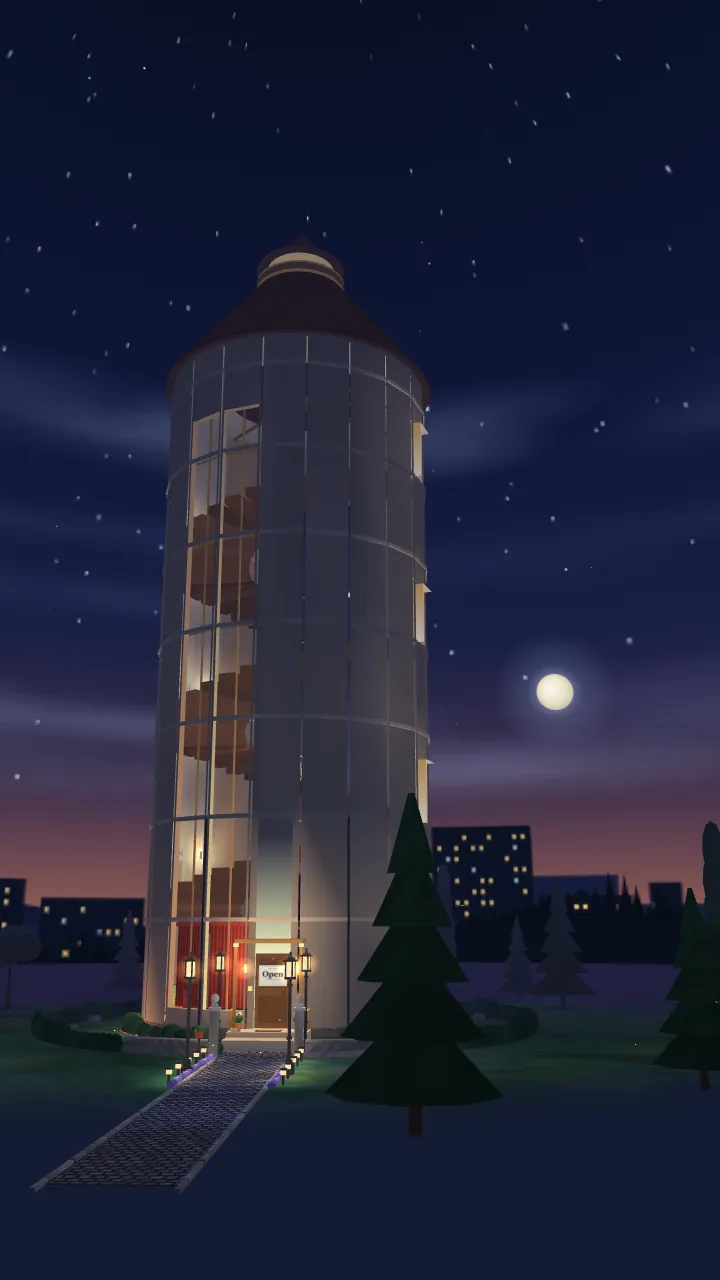
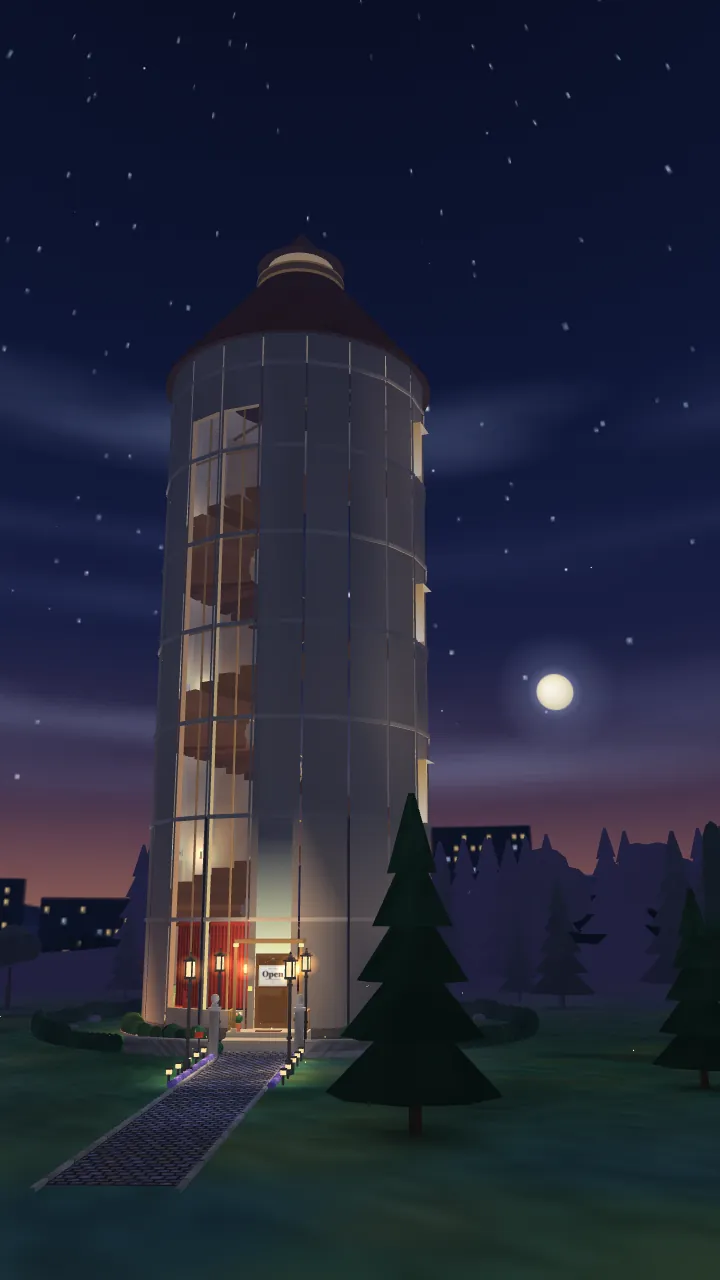
Replace the flat outer plane with terrain: fields, lakes, rolling hills and far woods to the horizon; refresh the posters

diff --git a/house/exterior.js b/house/exterior.js
@@ -10,7 +10,6 @@ const GY = -60, WALL = 30, FW = 2 * APO * Math.tan(9 * D) + 1.5;
 const C = hex;
 const sinz = (a) => Math.sin(a * D), cosz = (a) => Math.cos(a * D);
 const UP = [0, 1, 0], DOWN = [0, -1, 0];
-const BG = [20, 27, 51]; /* the colour of the ground disc beyond the lawn (sky.js), so the lawn can melt into it */
 
 /* smooth value noise on the ground plane, for patches in the lawn and for varying the planting */
 const fr = (x) => x - Math.floor(x);
@@ -140,21 +139,44 @@ export function buildExterior(scene, B, H, ex) {
     treeList.push({ a, r, s, kind: kind < 0.45 ? 0 : kind < 0.78 ? 1 : 2, x: r * sinz(a), z: r * cosz(a) });
   }
 
-  /* ---------- the lawn: patchy greens, soft mowing stripes by the house, and a slow fade into the dark ground ---------- */
+  /* ---------- the ground: a lawn by the house that gives way, ring by ring, to fields, lakes and rolling hills out to the horizon ---------- */
+  const wet = (x, z, rr) => (1 - sstep(0.28, 0.34, vn(x + 500, z - 300, 1500))) * sstep(3300, 4000, rr); /* 0..1: how much of this spot is lake */
+  const th = (x, z) => { /* terrain height above the lawn: flat near the house and the front approach, hills further out, flat lakes */
+    const rr = Math.hypot(x, z); if (rr < 3100) return 0;
+    const front = 0.25 + 0.75 * sstep(30, 100, Math.abs(dAz(Math.atan2(x, z) / D)));
+    return sstep(3100, 6500, rr) * front * (vn(x, z, 1700) * 260 + vn(x, z, 650) * 90) * (1 - wet(x, z, rr));
+  };
   const lawn = (p, n) => {
     const x = p[0], z = p[2], rr = Math.hypot(x, z), f = fbm(x, z);
     let sh = 1; for (let i = 0; i < treeList.length; i++) { const tr = treeList[i], d = Math.hypot(x - tr.x, z - tr.z), R = 210 * tr.s; if (d < R) sh = Math.min(sh, 1 - 0.42 * (1 - d / R) * (1 - d / R) * 1.6); }
     let a = mix(C('#24472f'), C('#386443'), f);
     a = mix(a, C('#55602f'), sstep(0.6, 0.85, vn(x + 400, z - 300, 230)) * 0.5); /* dry, yellowing patches */
     a = mix(a, C('#1a3024'), sstep(0.65, 0.9, vn(x - 900, z + 120, 380)) * 0.5); /* damp shade */
+    const far = sstep(1900, 3300, rr);
+    if (far > 0) { /* beyond the garden: fields of different greens and ochres, with cool shaded folds between them */
+      let fld = mix(C('#2a4a33'), C('#4a5a2e'), vn(x + 90, z - 40, 520));
+      fld = mix(fld, C('#1f3d40'), sstep(0.55, 0.8, vn(x - 300, z + 700, 900)) * 0.7);
+      fld = mix(fld, C('#5a5a34'), sstep(0.72, 0.9, vn(x + 1200, z + 300, 640)) * 0.6);
+      a = mix(a, fld, far).map((v) => v * (1 + 0.3 * far)); /* a touch brighter out here, so the land reads under the fog */
+      const wm = wet(x, z, rr);
+      if (wm > 0) { const s = Math.max(0, x / Math.max(1, rr)), sheen = s * s * (0.6 + 0.4 * vn(x, z, 120)); a = mix(a, mix(C('#17264c'), C('#4b66a8'), Math.min(1, sheen * 1.4)), Math.min(1, wm * 1.6)); }
+    }
     const l = -x * cosz(az) + z * sinz(az), k = (1 + 0.06 * Math.sin(l * Math.PI / 140) * (1 - sstep(900, 1700, rr))) * grain(p, 0.12) * Math.max(0.5, sh);
-    return mix(shade([a[0] * k, a[1] * k, a[2] * k], p, n, extAmb(n)), BG, sstep(1700, 2650, rr));
+    return shade([a[0] * k, a[1] * k, a[2] * k], p, n, extAmb(n));
   };
   { /* one call, so every ring shares a cell count and the seams meet exactly */
     const ra = R0 + 6, rb = 2700, cell = 230, nr = Math.ceil((rb - ra) / cell), na = Math.ceil(2 * Math.PI * rb / cell);
     for (let ri = 0; ri < nr; ri++) for (let i = 0; i < na; i++) {
       const r0 = ra + (rb - ra) * ri / nr, r1 = ra + (rb - ra) * (ri + 1) / nr, p0 = 360 * i / na, p1 = 360 * (i + 1) / na;
       B.quad(polarPt(p0, r0, GY + 0.2), polarPt(p1, r0, GY + 0.2), polarPt(p1, r1, GY + 0.2), polarPt(p0, r1, GY + 0.2), lawn, 4, 4, UP);
+    }
+  }
+  { /* the land beyond: rings that widen with distance, lifted by the terrain height; fog (3500..9000) does the atmosphere */
+    const RIN = 2700, ROUT = 8800, NR = 18, NA = 148, ratio = Math.pow(ROUT / RIN, 1 / NR);
+    const P = (a, r) => { const x = r * sinz(a), z = r * cosz(a); return [x, GY + 0.2 + th(x, z), z]; };
+    for (let ri = 0; ri < NR; ri++) {
+      const r0 = RIN * Math.pow(ratio, ri), r1 = r0 * ratio;
+      for (let i = 0; i < NA; i++) { const p0 = 360 * i / NA, p1 = 360 * (i + 1) / NA; B.quad(P(p0, r0), P(p1, r0), P(p1, r1), P(p0, r1), lawn, 2, 2, UP); }
     }
   }
 
@@ -260,7 +282,7 @@ export function buildExterior(scene, B, H, ex) {
   const bark = ext(C('#3A2B1F'), 0.12);
   const leaf = (t) => ext(mix(C('#18301f'), C('#2c5a38'), t), 0.18);
   const tree = (a, r, kind, s) => {
-    const x = r * sinz(a), z = r * cosz(a);
+    const x = r * sinz(a), z = r * cosz(a), GY = -60 + th(x, z); /* stand on the terrain */
     if (kind === 0) {
       frustum(x, z, GY, GY + 270 * s, 19 * s, 10 * s, 6, bark);
       const y0 = GY + 360 * s;
@@ -278,6 +300,17 @@ export function buildExterior(scene, B, H, ex) {
     }
   };
   treeList.forEach((tr) => tree(tr.a, tr.r, tr.kind, tr.s));
+  /* far woods on the hills, in clumps, larger with distance so they still read from the establishing shot */
+  { let fs = 5; const frng = () => (fs = (fs * 16807) % 2147483647) / 2147483647, woods = [];
+    for (let i = 0; i < 520 && woods.length < 120; i++) {
+      const a = frng() * 360, r = 2900 + frng() * 4200, x = r * sinz(a), z = r * cosz(a);
+      const rad = x * sinz(az) + z * cosz(az), lat = -x * cosz(az) + z * sinz(az);
+      if (rad > 2600 && rad < 6400 && Math.abs(lat) < 1500) continue; /* keep the approach, and the establishing camera, clear */
+      if (vn(x + 1300, z + 200, 1000) < 0.5 || wet(x, z, r) > 0.05) continue;
+      if (woods.some((w) => Math.hypot(w.x - x, w.z - z) < 170)) continue;
+      woods.push({ a, r, x, z, kind: frng() < 0.62 ? 1 : 0, s: Math.min(1.9, 1.2 + r / 5000) });
+    }
+    woods.forEach((w) => tree(w.a, w.r, w.kind, w.s)); }
 
   /* lamp posts: dark iron, bright lamp head */
   ex.lamps.forEach((p) => {
